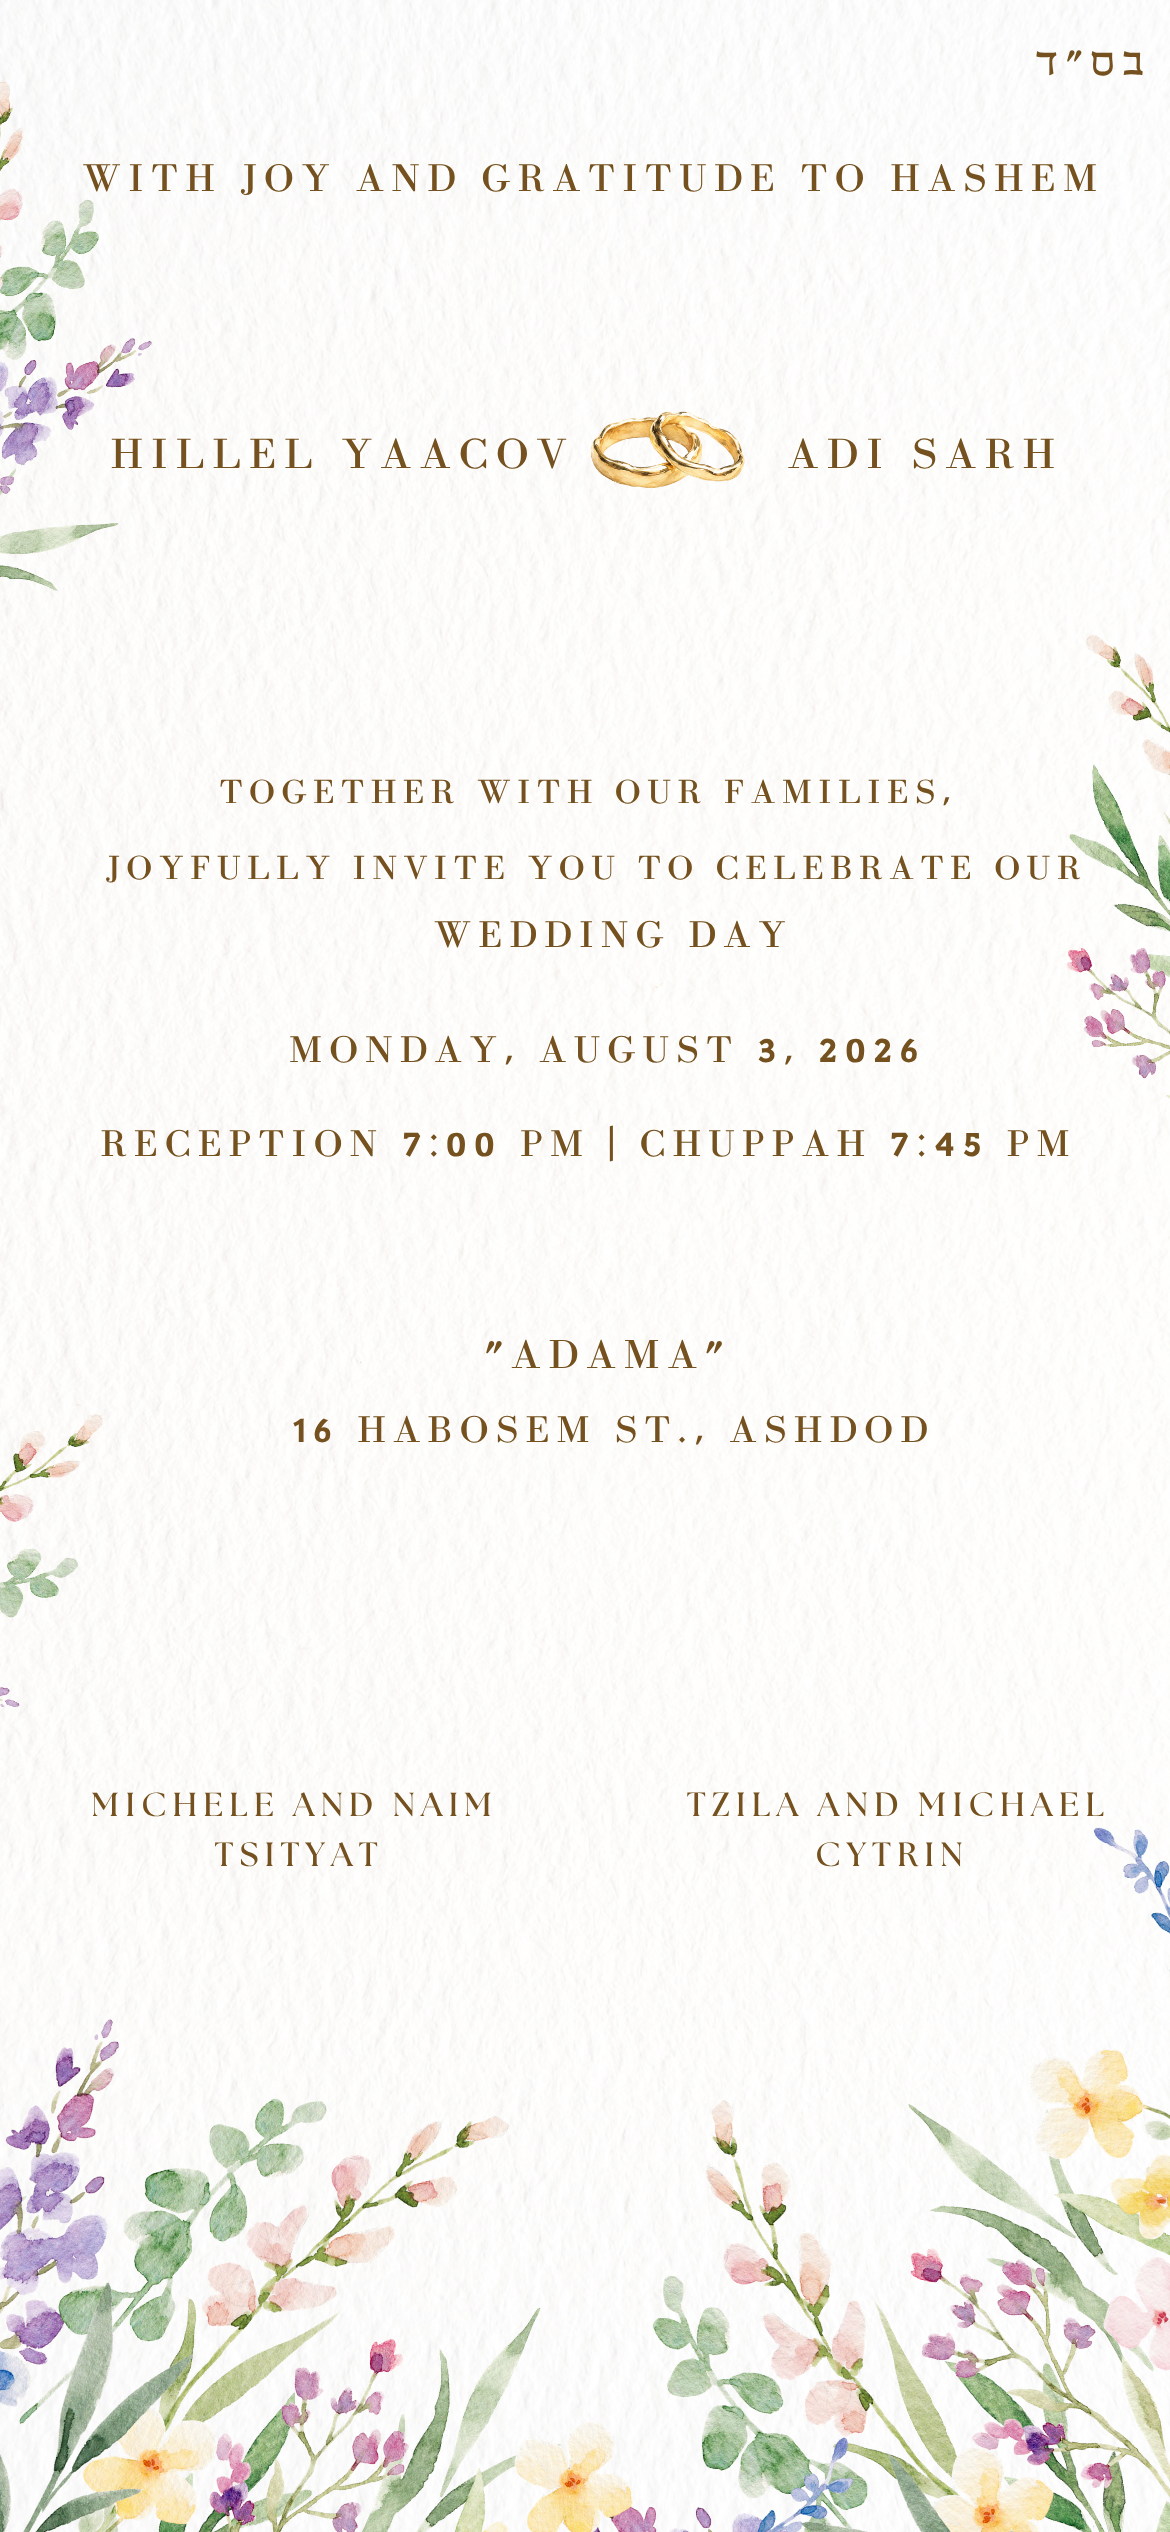
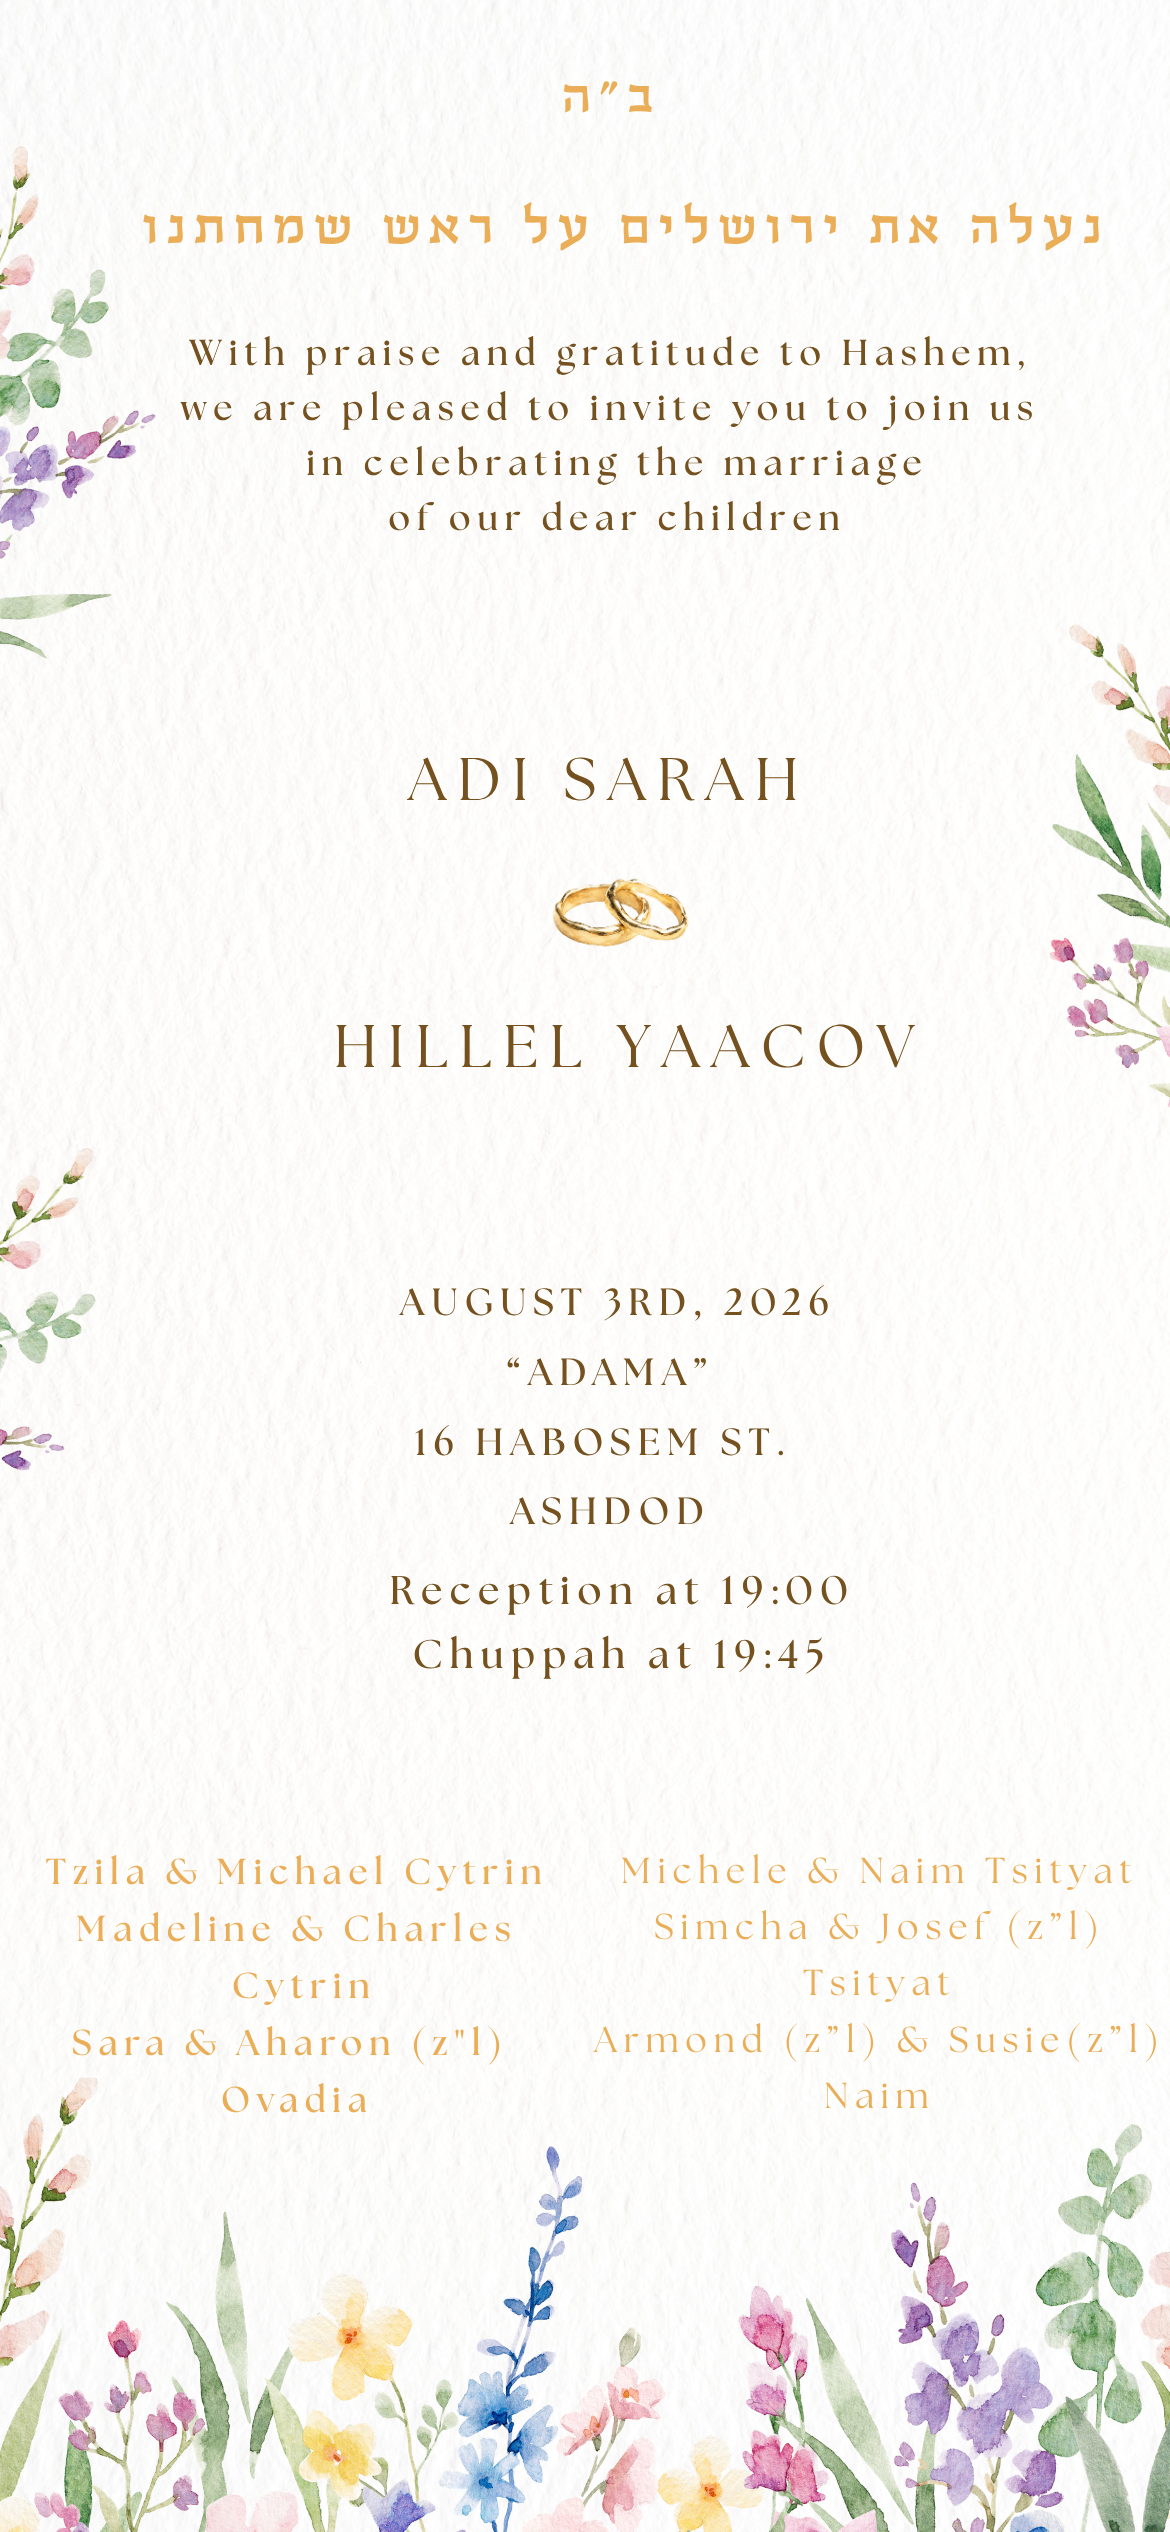
change cover

diff --git a/src/App.jsx b/src/App.jsx
@@ -24,8 +24,16 @@ const detectLang = () => {
   return langs.some((l) => l.toLowerCase().startsWith('he')) ? 'he' : 'en'
 }
 
+// Each language has its own shareable link via the ?lang= query param
+// (?lang=he / ?lang=en). Absent or unknown values fall back to browser locale.
+const getInitialLang = () => {
+  if (typeof window === 'undefined') return detectLang()
+  const q = (new URLSearchParams(window.location.search).get('lang') || '').toLowerCase()
+  return q === 'he' || q === 'en' ? q : detectLang()
+}
+
 export default function App() {
-  const [lang, setLang] = useState(detectLang)
+  const [lang, setLang] = useState(getInitialLang)
   const [switching, setSwitching] = useState(false)
   const [showDetails, setShowDetails] = useState(false)
   const [rsvpVisible, setRsvpVisible] = useState(false)
@@ -34,16 +42,26 @@ export default function App() {
 
   const config = translations[lang]
   const t = config.ui
+  // English has no hero cover, so its content is shown immediately.
+  const entered = showDetails || !config.hero
+  const showIntro = config.sections.includes('intro')
 
   // Cross-fade on language switch: fade the content out, swap language at
   // opacity 0 (so the RTL/LTR flip + image change isn't jarring), fade back in.
-  const toggleLang = () => {
+  // The active language is mirrored into the URL so it stays shareable.
+  const applyLang = (next) => {
     setSwitching(true)
     setTimeout(() => {
-      setLang((l) => (l === 'he' ? 'en' : 'he'))
+      setLang(next)
+      if (typeof window !== 'undefined') {
+        const url = new URL(window.location.href)
+        url.searchParams.set('lang', next)
+        window.history.replaceState({}, '', url)
+      }
       setSwitching(false)
     }, 260)
   }
+  const toggleLang = () => applyLang(lang === 'he' ? 'en' : 'he')
 
   // Paper-texture frame shown around (outside) each section's border.
   const frameBg = {
@@ -71,7 +89,7 @@ export default function App() {
 
   // Watch the RSVP section: hide the "scroll down" arrows once it comes into view.
   useEffect(() => {
-    if (!showDetails) return
+    if (!entered) return
     const el = rsvpRef.current
     if (!el) return
     const observer = new IntersectionObserver(
@@ -80,7 +98,7 @@ export default function App() {
     )
     observer.observe(el)
     return () => observer.disconnect()
-  }, [showDetails])
+  }, [entered])
 
   // Custom slow smooth-scroll (native `smooth` speed isn't controllable).
   const slowScrollTo = (targetTop, duration = 1400) => {
@@ -189,7 +207,7 @@ export default function App() {
         className="mx-auto w-full max-w-[480px]"
         style={{ opacity: switching ? 0 : 1, transition: 'opacity 260ms ease' }}
       >
-        {!showDetails ? (
+        {config.hero && !showDetails ? (
           <section className="py-6 px-2.5" style={frameBg}>
             <div className={`relative w-full aspect-[1170/2532] overflow-hidden ${frameBorder}`}>
               <img src={config.images.heroImg} alt="" fetchPriority="high" decoding="async" className="absolute inset-0 w-full h-full object-cover" />
@@ -206,20 +224,22 @@ export default function App() {
           </section>
         ) : null}
 
-        {showDetails ? (
+        {entered ? (
           <>
-            {/* 2. Intro – floral wreath blessing, shown before the details. */}
-            <section id="intro" className="design7-enter py-6 px-2.5" style={frameBg}>
-              <div className={`relative w-full aspect-[1170/2532] overflow-hidden ${frameBorder}`}>
-                <img src={config.images.introImg} alt="" className="absolute inset-0 w-full h-full object-cover" />
-              </div>
-            </section>
+            {/* 2. Intro – floral wreath blessing (Hebrew only). */}
+            {showIntro && (
+              <section id="intro" className="design7-enter py-6 px-2.5" style={frameBg}>
+                <div className={`relative w-full aspect-[1170/2532] overflow-hidden ${frameBorder}`}>
+                  <img src={config.images.introImg} alt="" className="absolute inset-0 w-full h-full object-cover" />
+                </div>
+              </section>
+            )}
 
             {/* 3. Details – navigation button overlaid below the venue address */}
             <section id="details" className="design7-enter py-6 px-2.5" style={{ ...frameBg, animationDelay: '0.15s' }}>
               <div className={`relative w-full aspect-[1170/2532] overflow-hidden ${frameBorder}`}>
                 <img src={config.images.detailsImg} alt="" className="absolute inset-0 w-full h-full object-cover" />
-                <div className="absolute inset-x-0 top-[62%] z-10 flex items-center justify-center gap-3">
+                <div className="absolute inset-x-0 top-[67%] z-10 flex items-center justify-center gap-3">
                   <a
                     href={config.navigationUrl}
                     target="_blank"
@@ -277,7 +297,7 @@ export default function App() {
       </div>
 
       {/* Scroll cue – nudges guests toward the RSVP until it's on screen. */}
-      {showDetails && !rsvpVisible && (
+      {entered && !rsvpVisible && (
         <button
           type="button"
           onClick={scrollToNextSection}

diff --git a/src/config.js b/src/config.js
@@ -16,7 +16,6 @@ import detailsImg from './assets/details.webp'
 import rsvpImg from './assets/rsvp.webp'
 import bgImg from './assets/background.webp'
 // English artwork (PNGs converted to webp for fast loads)
-import heroEng from './assets/hero-eng.webp'
 import detailsEng from './assets/details-eng.webp'
 import rsvpEng from './assets/rsvp-eng.webp'
 
@@ -92,6 +91,9 @@ export const translations = {
       langToggle: '🇬🇧',
       langToggleAria: 'Switch to English',
     },
+    // Full Hebrew experience: a hero cover gate, then intro → details → rsvp.
+    hero: true,
+    sections: ['intro', 'details', 'rsvp'],
     images: { heroImg, introImg, detailsImg, rsvpImg, bgImg },
     rsvp: { ...shared.rsvpStyle, lang: 'he' },
   },
@@ -109,9 +111,10 @@ export const translations = {
       langToggle: '🇮🇱',
       langToggleAria: 'מעבר לעברית',
     },
-    // English artwork; intro has no English version yet, so it reuses the
-    // Hebrew floral blessing. Add intro-eng.webp + swap here to translate it.
-    images: { heroImg: heroEng, introImg, detailsImg: detailsEng, rsvpImg: rsvpEng, bgImg },
+    // English experience: no hero cover, no intro — only details → rsvp.
+    hero: false,
+    sections: ['details', 'rsvp'],
+    images: { detailsImg: detailsEng, rsvpImg: rsvpEng, bgImg },
     rsvp: { ...shared.rsvpStyle, labels: { ...enLabels, rsvp: '', intro: '' }, lang: 'en' },
   },
 }
